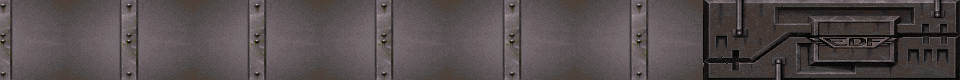
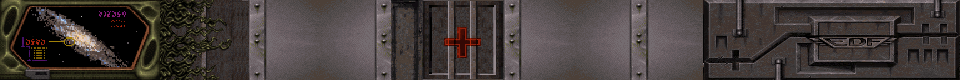
*More changes to the UI

diff --git a/src/game2D/UI.java b/src/game2D/UI.java
@@ -39,6 +39,10 @@ public class UI {
 		}
 
 		uiBar = new Image("data/UI/UIbarmaybe scaled orig.png");
+
+		SpriteSheet mapSheet = new SpriteSheet(new Image(
+				"data/UI/UI alien thing.png"), 160, 80);
+		alienMap = new Animation(mapSheet, 4000);
 		// updateHealthCounter();
 	}
 
@@ -46,10 +50,11 @@ public class UI {
 		uiBar.draw(0, 560);
 		curPortrait.draw(623, 560);
 		if (firstDigit != numbers[0])
-			firstDigit.draw(490, 557);
+			firstDigit.draw(500, 557);
 		if (secondDigit != numbers[0] || health == 100)
-			secondDigit.draw(535, 557);
+			secondDigit.draw(540, 557);
 		thirdDigit.draw(580, 557);
+		alienMap.draw(0, 560);
 	}
 
 	public void update(int healthUpdate) {
@@ -96,6 +101,7 @@ public class UI {
 	private Image uiBar;
 	private Image[] numbers;
 	private Animation[] portraits;
+	private Animation alienMap;
 	public Animation curPortrait;
 
 }
